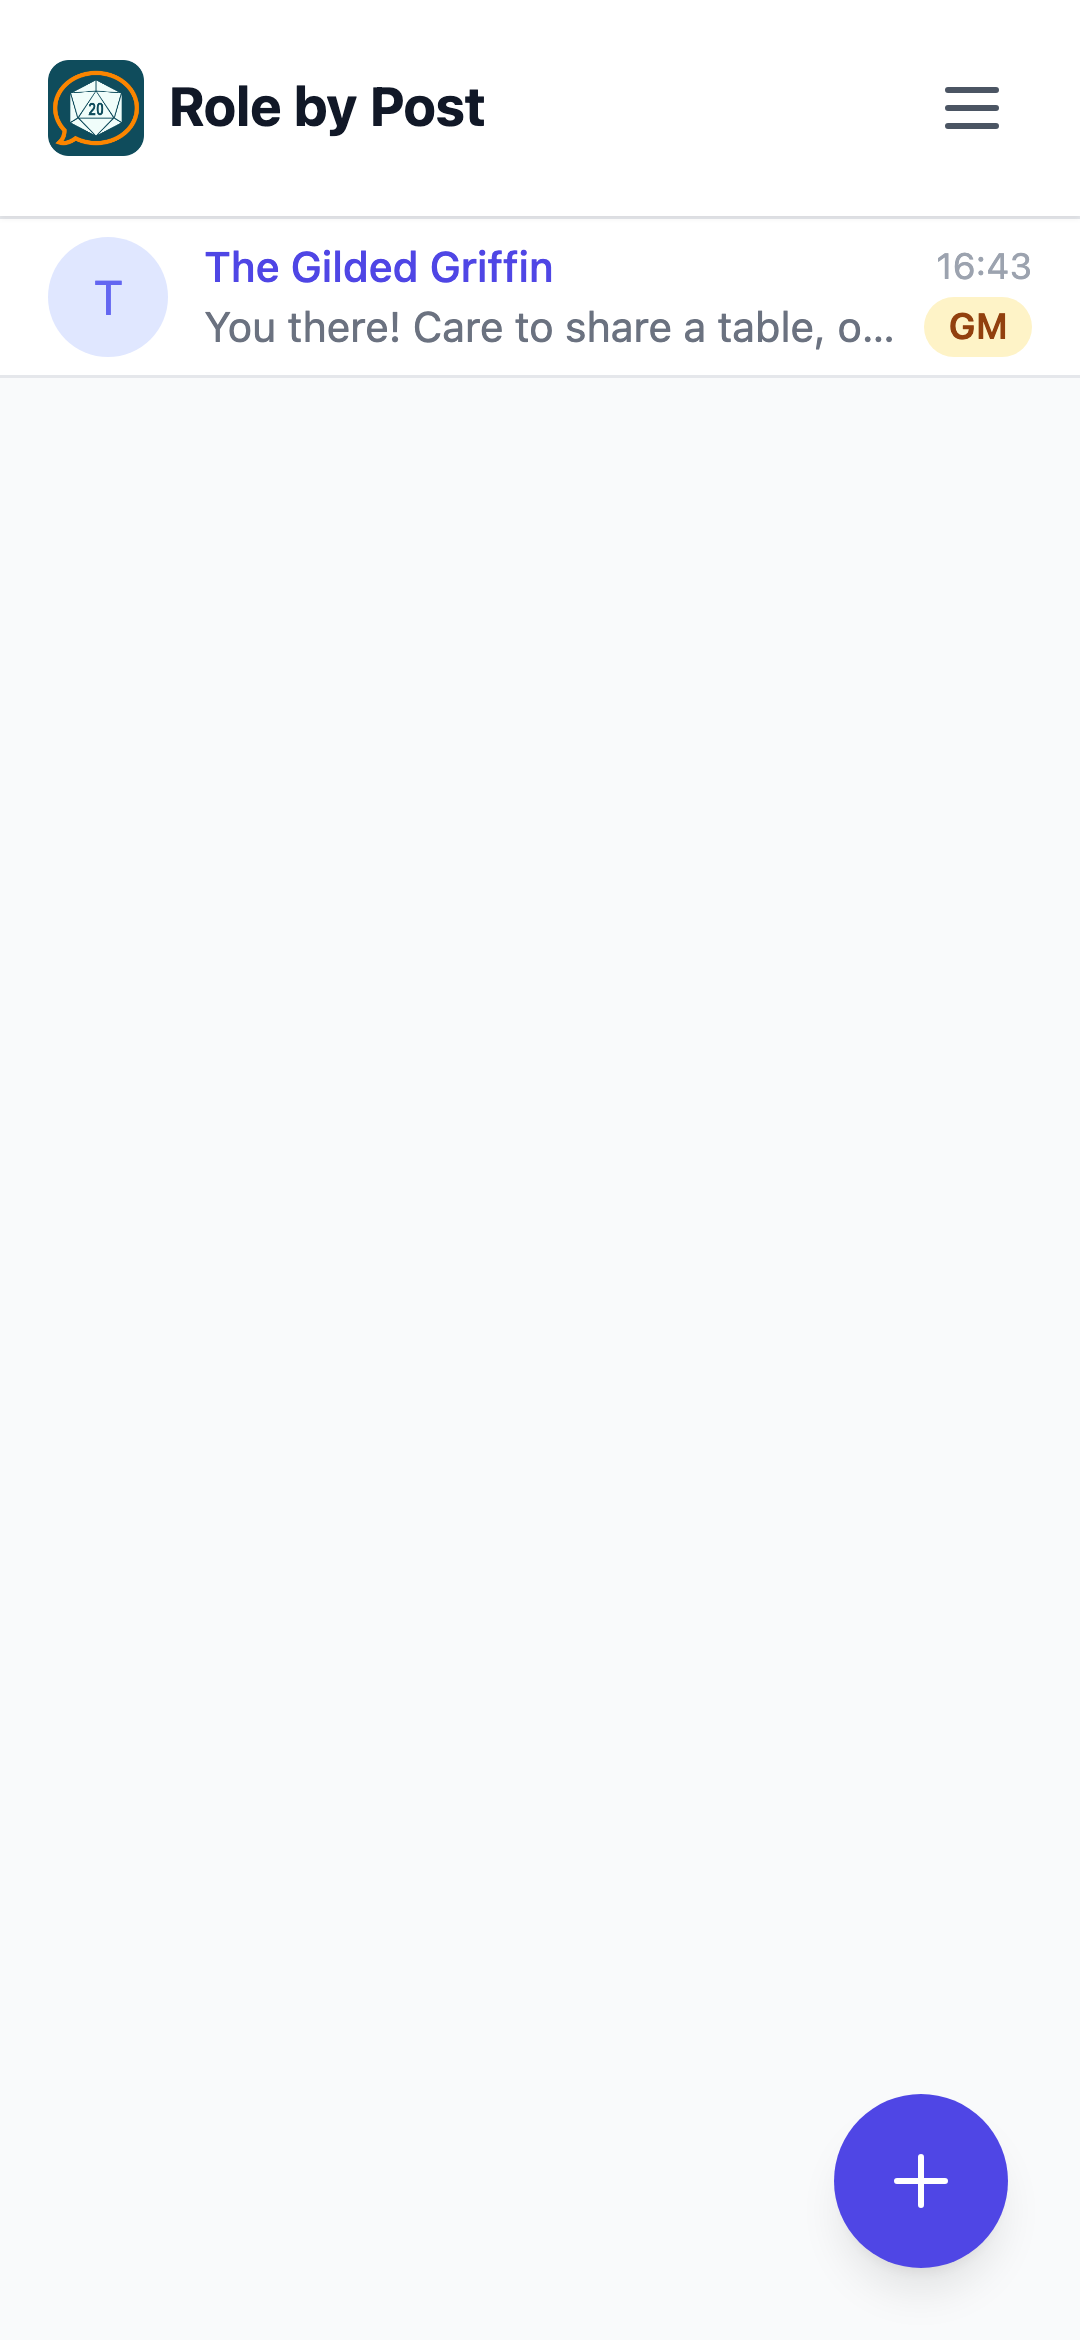
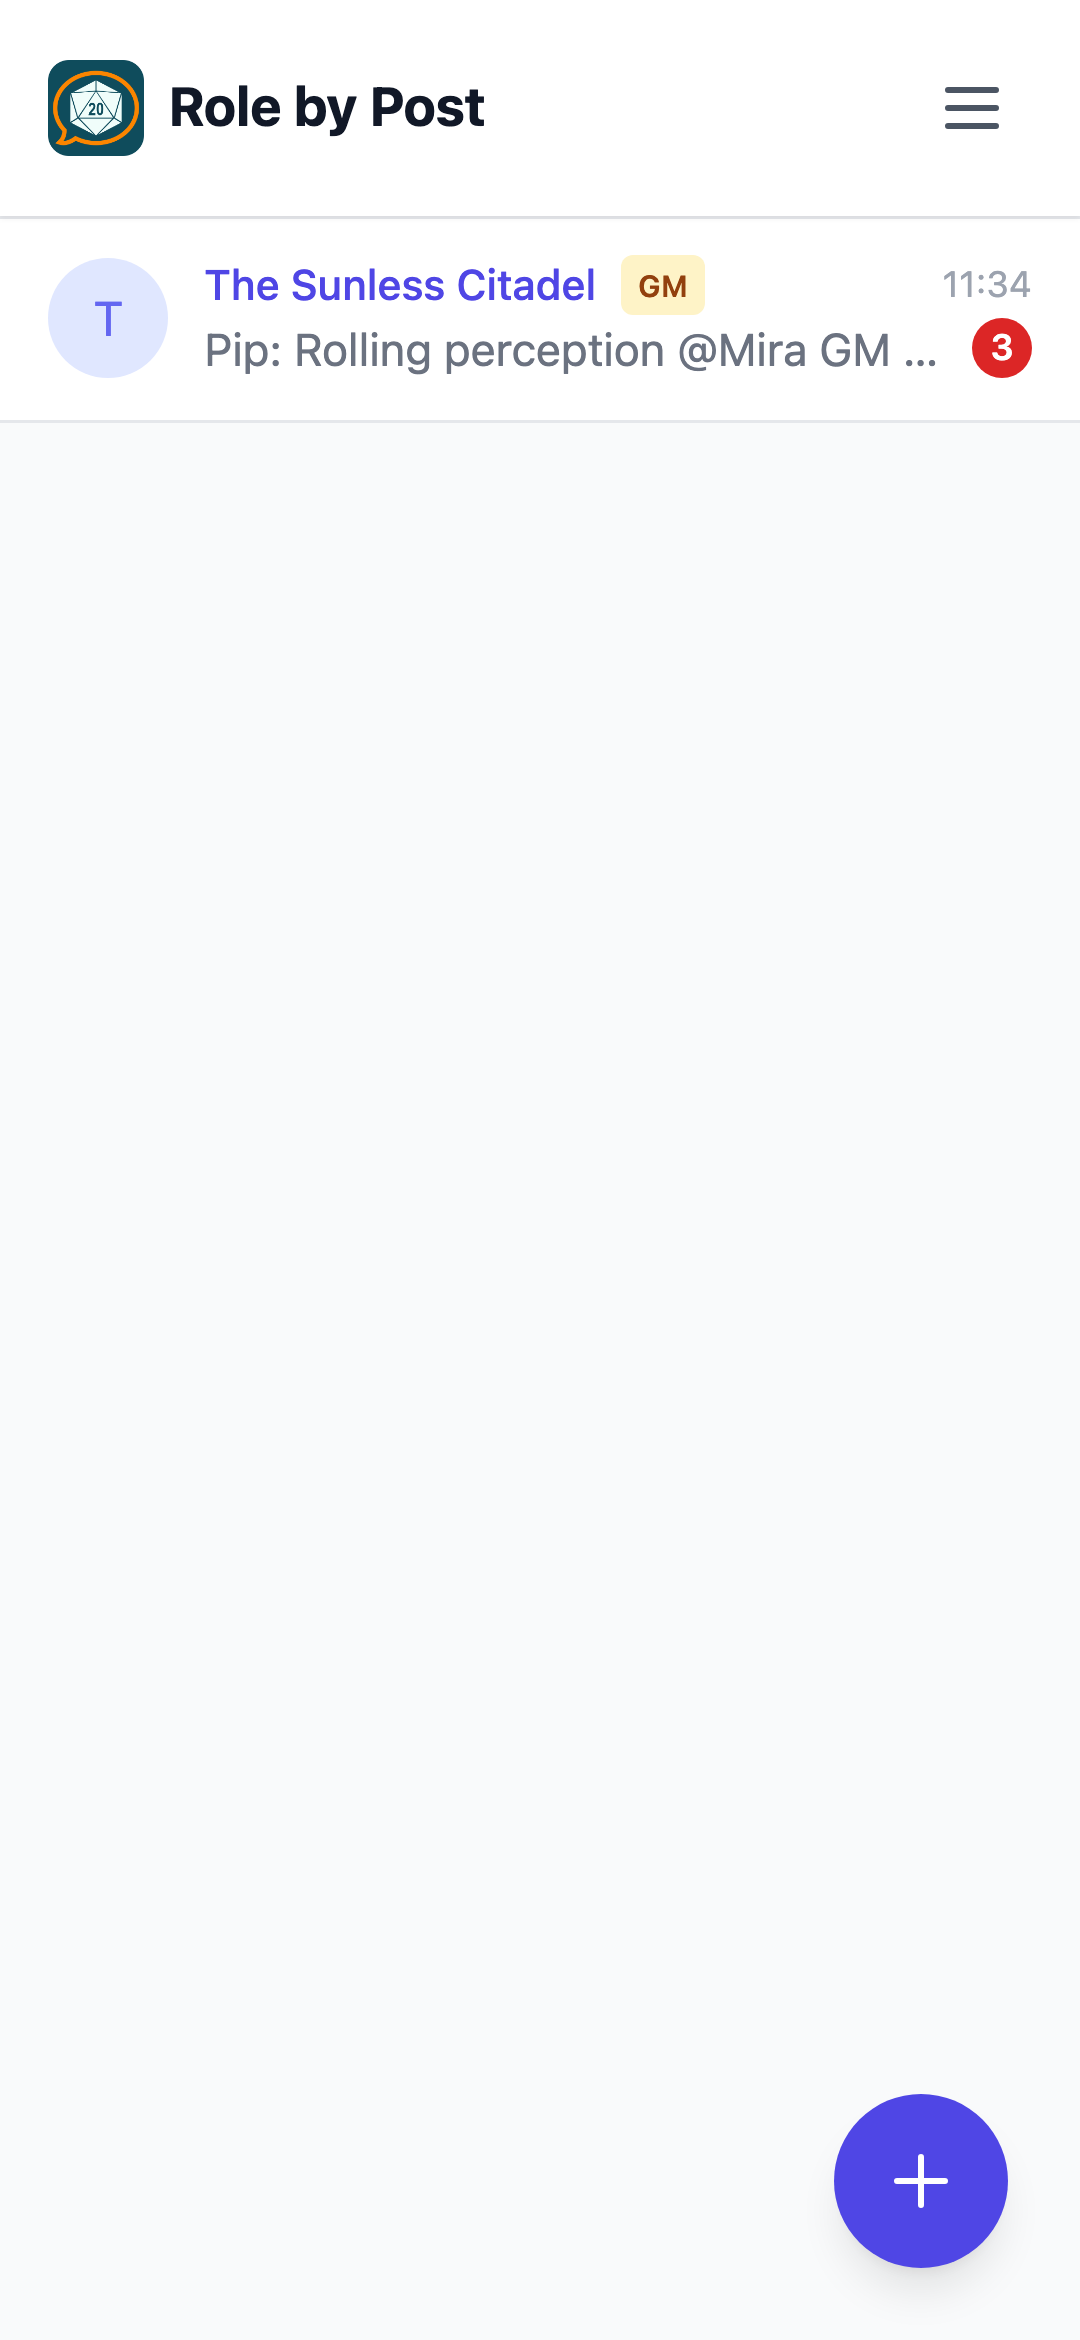
docs(#497): refresh lobby help screenshot + capture tooling (#501)
* docs(#497): refresh lobby help screenshot + add capture tooling

Regenerate public/help/lobby-with-channels.png against the post-#468 lobby
row (inline GM chip, sender-prefixed preview, count-only unread pill) at the
established 360x780 @3x light-mode profile.

Add the capture tooling, under scripts/help-screenshots/:
- seed.sql: idempotent local fixtures (screenshot users + a channel with
  members, NPC, safety tools and messages; the GM has unread so the pill
  renders)
- capture.mjs: Playwright capture of the full help set via a real Supabase
  session, 1080x2340 output
- README.md: run steps

AGENTS.md documents the tooling and the scratch-file exception.

Closes #497

* docs(#497): harden screenshot tooling per review

- capture.mjs: wipe the browser profile dir before each run and pin
  colorScheme to light, so captures never inherit theme/session state from
  a previous run (SHOT_PROFILE_DIR overrides the dir).
- README: spell out that the dev server must stay running and that capture
  runs in a second terminal (or via the backgrounded one-liner).
- seed.sql: delete the fixture channel by name + the fixture-only invite
  code, so a real channel sharing the name is never removed.

Changed region(s): [[0.1833, 0.0936, 0.825, 0.156], [0.0306, 0.0936, 0.1528, 0.1872], [0.8556, 0.0936, 0.9778, 0.1872]]

diff --git a/AGENTS.md b/AGENTS.md
@@ -161,7 +161,7 @@ Every UI change must follow these conventions:
 
 - Don't leave untracked and uncommitted files, confirm with me before creating commit
 - If changes should not be committed, check with the user what to do. Add to .gitignore? Delete?
-- Clean up scratch files (`patch*.mjs`, temp scripts, etc.) before committing. Never commit them — they are tooling artifacts, not source
+- Clean up scratch files (`patch*.mjs`, temp scripts, etc.) before committing. Never commit them — they are tooling artifacts, not source. (Exception: the deliberately-maintained help-screenshot tooling in `scripts/help-screenshots/` **is** committed source.)
 - **Proactive issue handling** — when you spot a bug, misconfiguration, or awkwardness during any task, act on it rather than ignoring it. If it fits the current body of work, fix it in that branch. If it doesn't, file it as a separate PR (NOT auto-merged) and tag the user for review. Never silently leave a found issue unfixed.
 - **Never `--no-verify` a commit or push** — husky hooks are the last line of defense (lint, build, tests). If a hook fails, fix the real cause. The only escape hatch is CI, which runs the same checks — but a green PR does not excuse skipping hooks locally. If hooks crash on startup, the usual cause is a dangling `NODE_OPTIONS=--import=...` (e.g. a stale headroom hook-shim); the `.husky/_sanitize-node-options.sh` helper strips it — upgrade/repair the tool instead of bypassing the hook.
 
@@ -170,6 +170,7 @@ Every UI change must follow these conventions:
 - Keep [FEATURES.md](docs/FEATURES.md) up to date on new, updated and removed features
 - Keep the in-app help content in [docs/help/](docs/help/) up to date on new, updated and removed features
 - After any UI change, check whether the help screenshots in `public/help/` need updating; regenerate and commit them when they do
+  - Screenshot tooling lives in [`scripts/help-screenshots/`](scripts/help-screenshots/): `seed.sql` (idempotent local fixtures, password `shots-pass-1`) + `capture.mjs` (Playwright, 360×780 @3x light mode). See its [README](scripts/help-screenshots/README.md) for the run steps. Review the regenerated PNGs and commit only the ones that changed.
 - **Every user-facing feature** (new or changed behavior visible to players) gets an entry in [docs/CHANGELOG.md](docs/CHANGELOG.md) in the same PR, under the top date-stamped heading (`## YYYY-MM-DD` — open a new heading for the merge date; merges to `main` ship immediately, so there is no "Unreleased:" state)
 - **User-facing copy must be player-friendly** — any text shown to app users (What's New modal, `/changelog` page, help docs, error messages) is written for RPG players, not developers. No schema/table names, RLS/SQL/API internals, function/column names, storage details, or error codes — say what the player gains, in plain words. [docs/CHANGELOG.md](docs/CHANGELOG.md) feeds the What's New UI directly, so keep its entries human-readable even when they summarize technical work.
 

diff --git a/scripts/help-screenshots/README.md b/scripts/help-screenshots/README.md
@@ -1,0 +1,55 @@
+# Help screenshot tooling
+
+Committed capture scripts for the in-app help images in [`public/help/`](../../public/help/).
+
+- **`seed.sql`** — idempotent local fixtures: screenshot users (password
+  `shots-pass-1`), the "The Sunless Citadel" channel with members, NPC, safety
+  tools and messages, plus a channel-less user for the empty lobby shot.
+- **`capture.mjs`** — Playwright capture at 360×780 CSS @3x (1080×2340), light
+  mode, mobile touch profile. Logs in by injecting a real Supabase session
+  (no UI login), then writes each `public/help/*.png`.
+
+## Run
+
+```bash
+# 1. Local Supabase up + migrations applied
+npx supabase start
+
+# 2. Seed fixtures (re-runnable)
+PGPASSWORD=postgres psql -h 127.0.0.1 -p 54322 -U postgres -d postgres \
+  -f scripts/help-screenshots/seed.sql
+
+# 3. Dev server up (uses .env.local) — keep this running
+npm run dev
+```
+
+Then, **in a second terminal** (the dev server must still be running), capture:
+
+```bash
+# 4. Capture (overwrites public/help/*.png)
+node scripts/help-screenshots/capture.mjs
+```
+
+Or background the server in one line and capture right after it is ready:
+
+```bash
+npm run dev & until curl -s -o /dev/null http://localhost:5173; do sleep 1; done
+node scripts/help-screenshots/capture.mjs
+```
+
+Then review the changed PNGs, update any affected help Markdown, and commit.
+
+Users: `shot.gm@local.test`, `shot.p1@local.test`, `shot.p2@local.test`,
+`shot.p3@local.test` (in the channel) and `shot.new@local.test` (no channels).
+Password for all: `shots-pass-1`.
+
+## Notes
+
+- `SHOT_OUT` / `SHOT_BASE_URL` env vars override the output dir and base URL.
+  `SHOT_PROFILE_DIR` overrides the browser profile dir (wiped before each run).
+- The script resets its browser profile every run and forces light mode, so
+  captures never inherit theme/session state from a previous run.
+- The script captures the full help set; it is fine to run it all and commit
+  only the images that changed.
+- These scripts are real tooling (committed), unlike the throwaway captures
+  they replaced. Keep them working when the UI changes.
